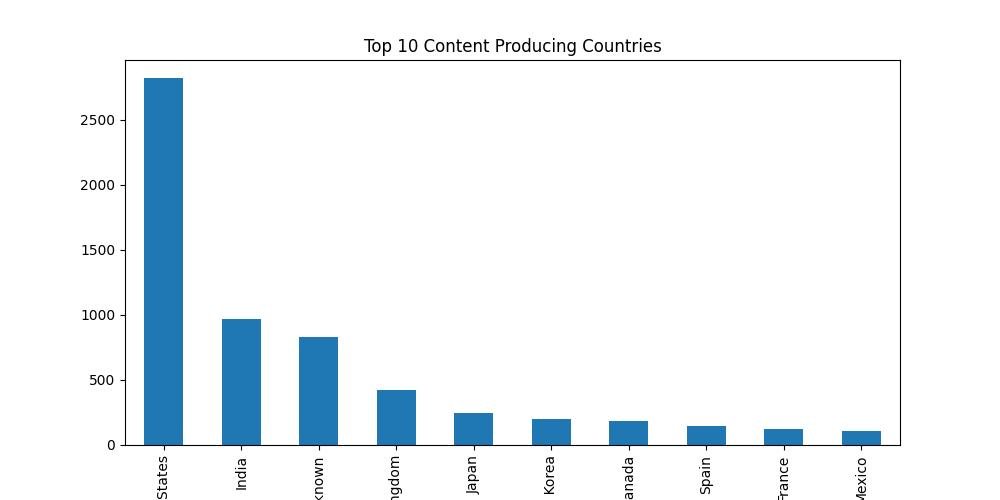
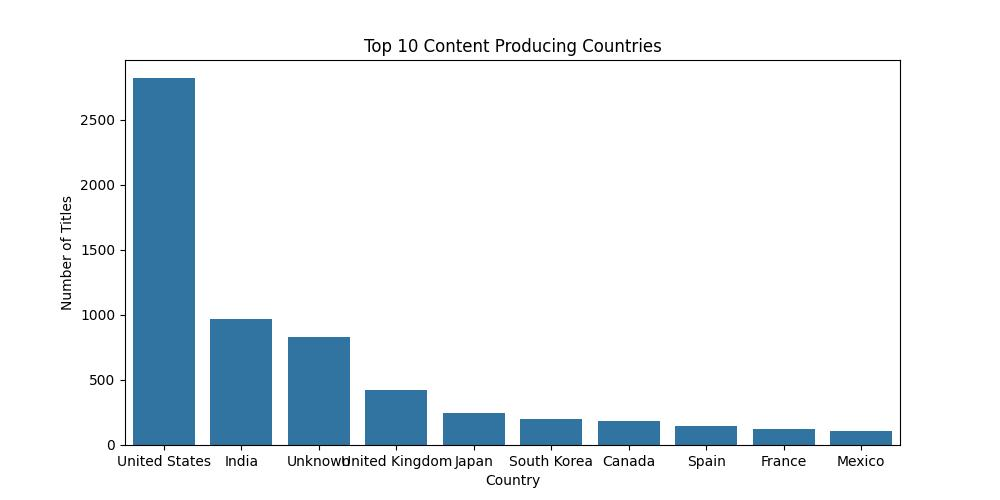
Initial Commit

diff --git a/test1.py b/test1.py
@@ -20,7 +20,7 @@ plt.show() #Shows that netflix contains more movies
 #Content Released per year
 release_year = df['release_year'].value_counts().sort_index()
 plt.figure(figsize=(10,5))
-release_year.plot()
+sns.lineplot(x=release_year.index, y=release_year.values, marker="o")
 plt.title("Content released per year")
 plt.xlabel("Year")
 plt.ylabel("Number of shows")
@@ -29,8 +29,13 @@ plt.show() # Shows that content released per year increased after 2015
 #Shows Top 10 Countries Producing Content
 top_countries = df['country'].value_counts().head(10)
 plt.figure(figsize=(10,5))
-top_countries.plot(kind="bar")
+sns.barplot(
+    x=top_countries.index,
+    y=top_countries.values
+)
 plt.title("Top 10 Content Producing Countries")
+plt.xlabel("Country")
+plt.ylabel("Number of Titles")
 plt.savefig('top_10_content.jpg')
 plt.show() #USA Leads the World
 #Years In Which Most Content was added 
@@ -47,7 +52,9 @@ print(avg_duration)
 genres = df['listed_in'].str.split(" ", expand=True).stack()
 top_genres = genres.value_counts().head(10)
 plt.figure(figsize=(10,5))
-top_genres.plot(kind='bar')
+sns.barplot(x=top_genres.index, y=top_genres.values)
 plt.title("Top Genres on Netflix")
+plt.xlabel("Genres")
+plt.ylabel("Number of Genres")
 plt.savefig('genres.jpg')
 plt.show()